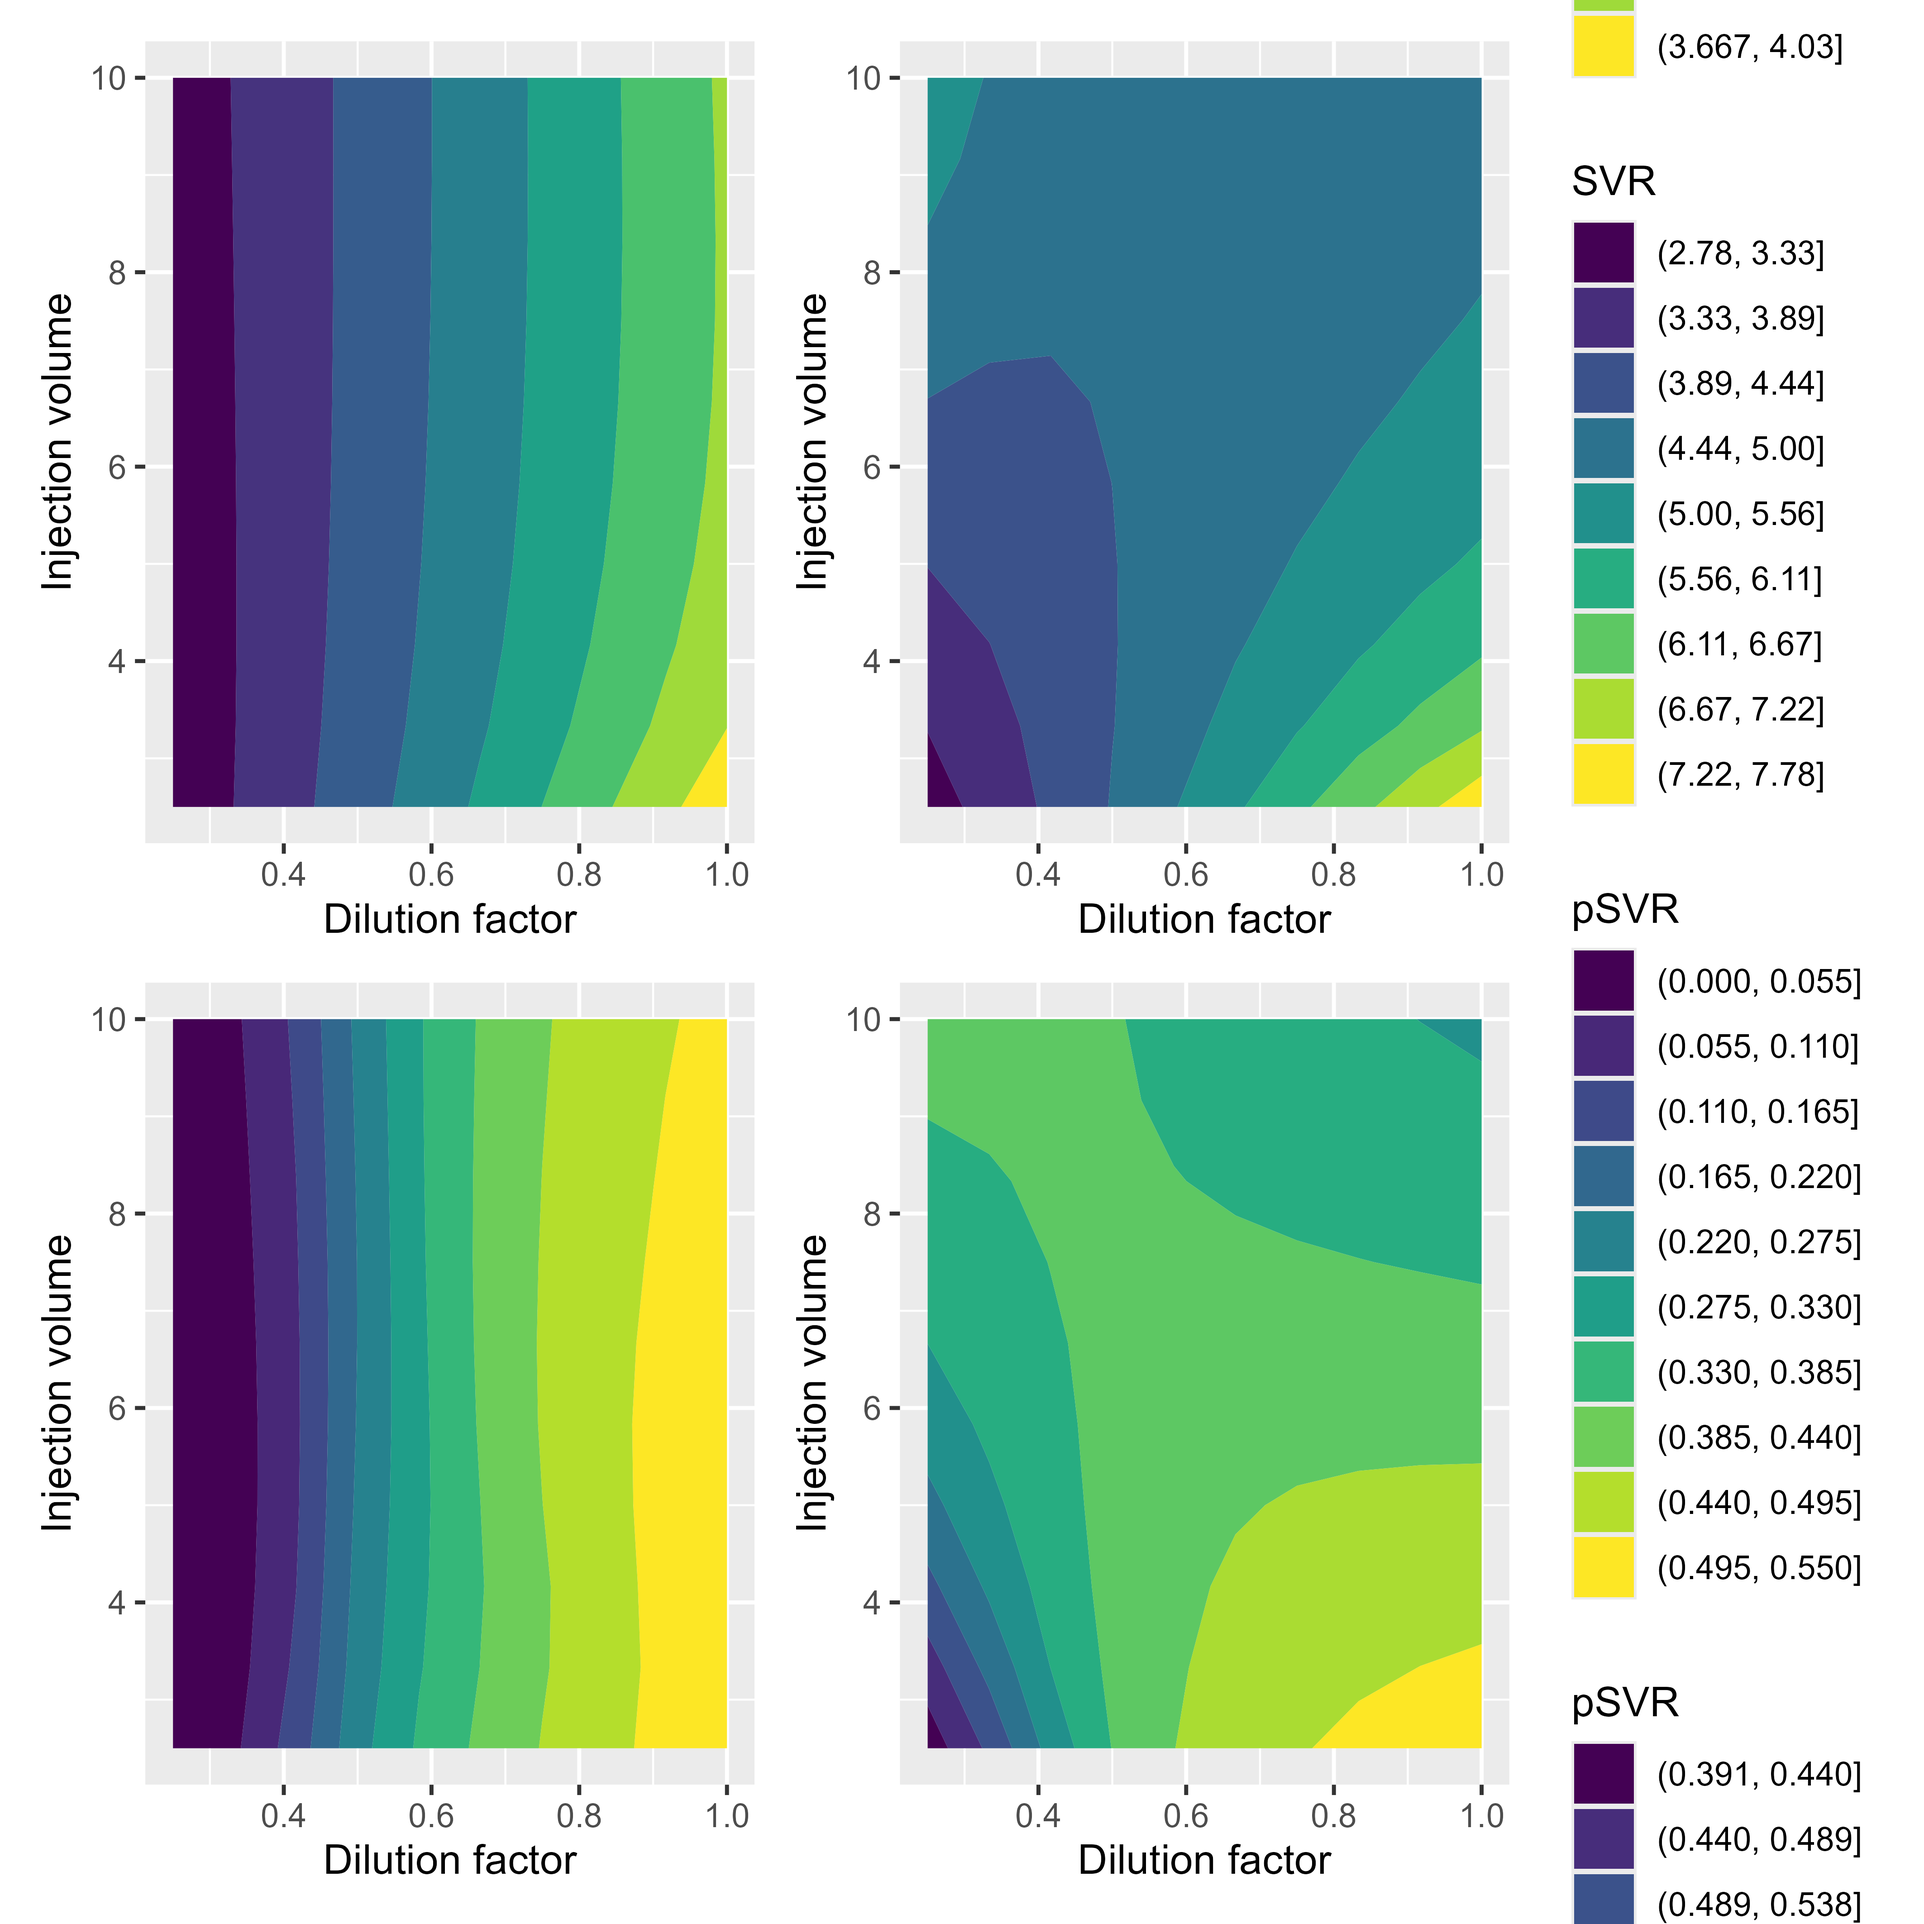
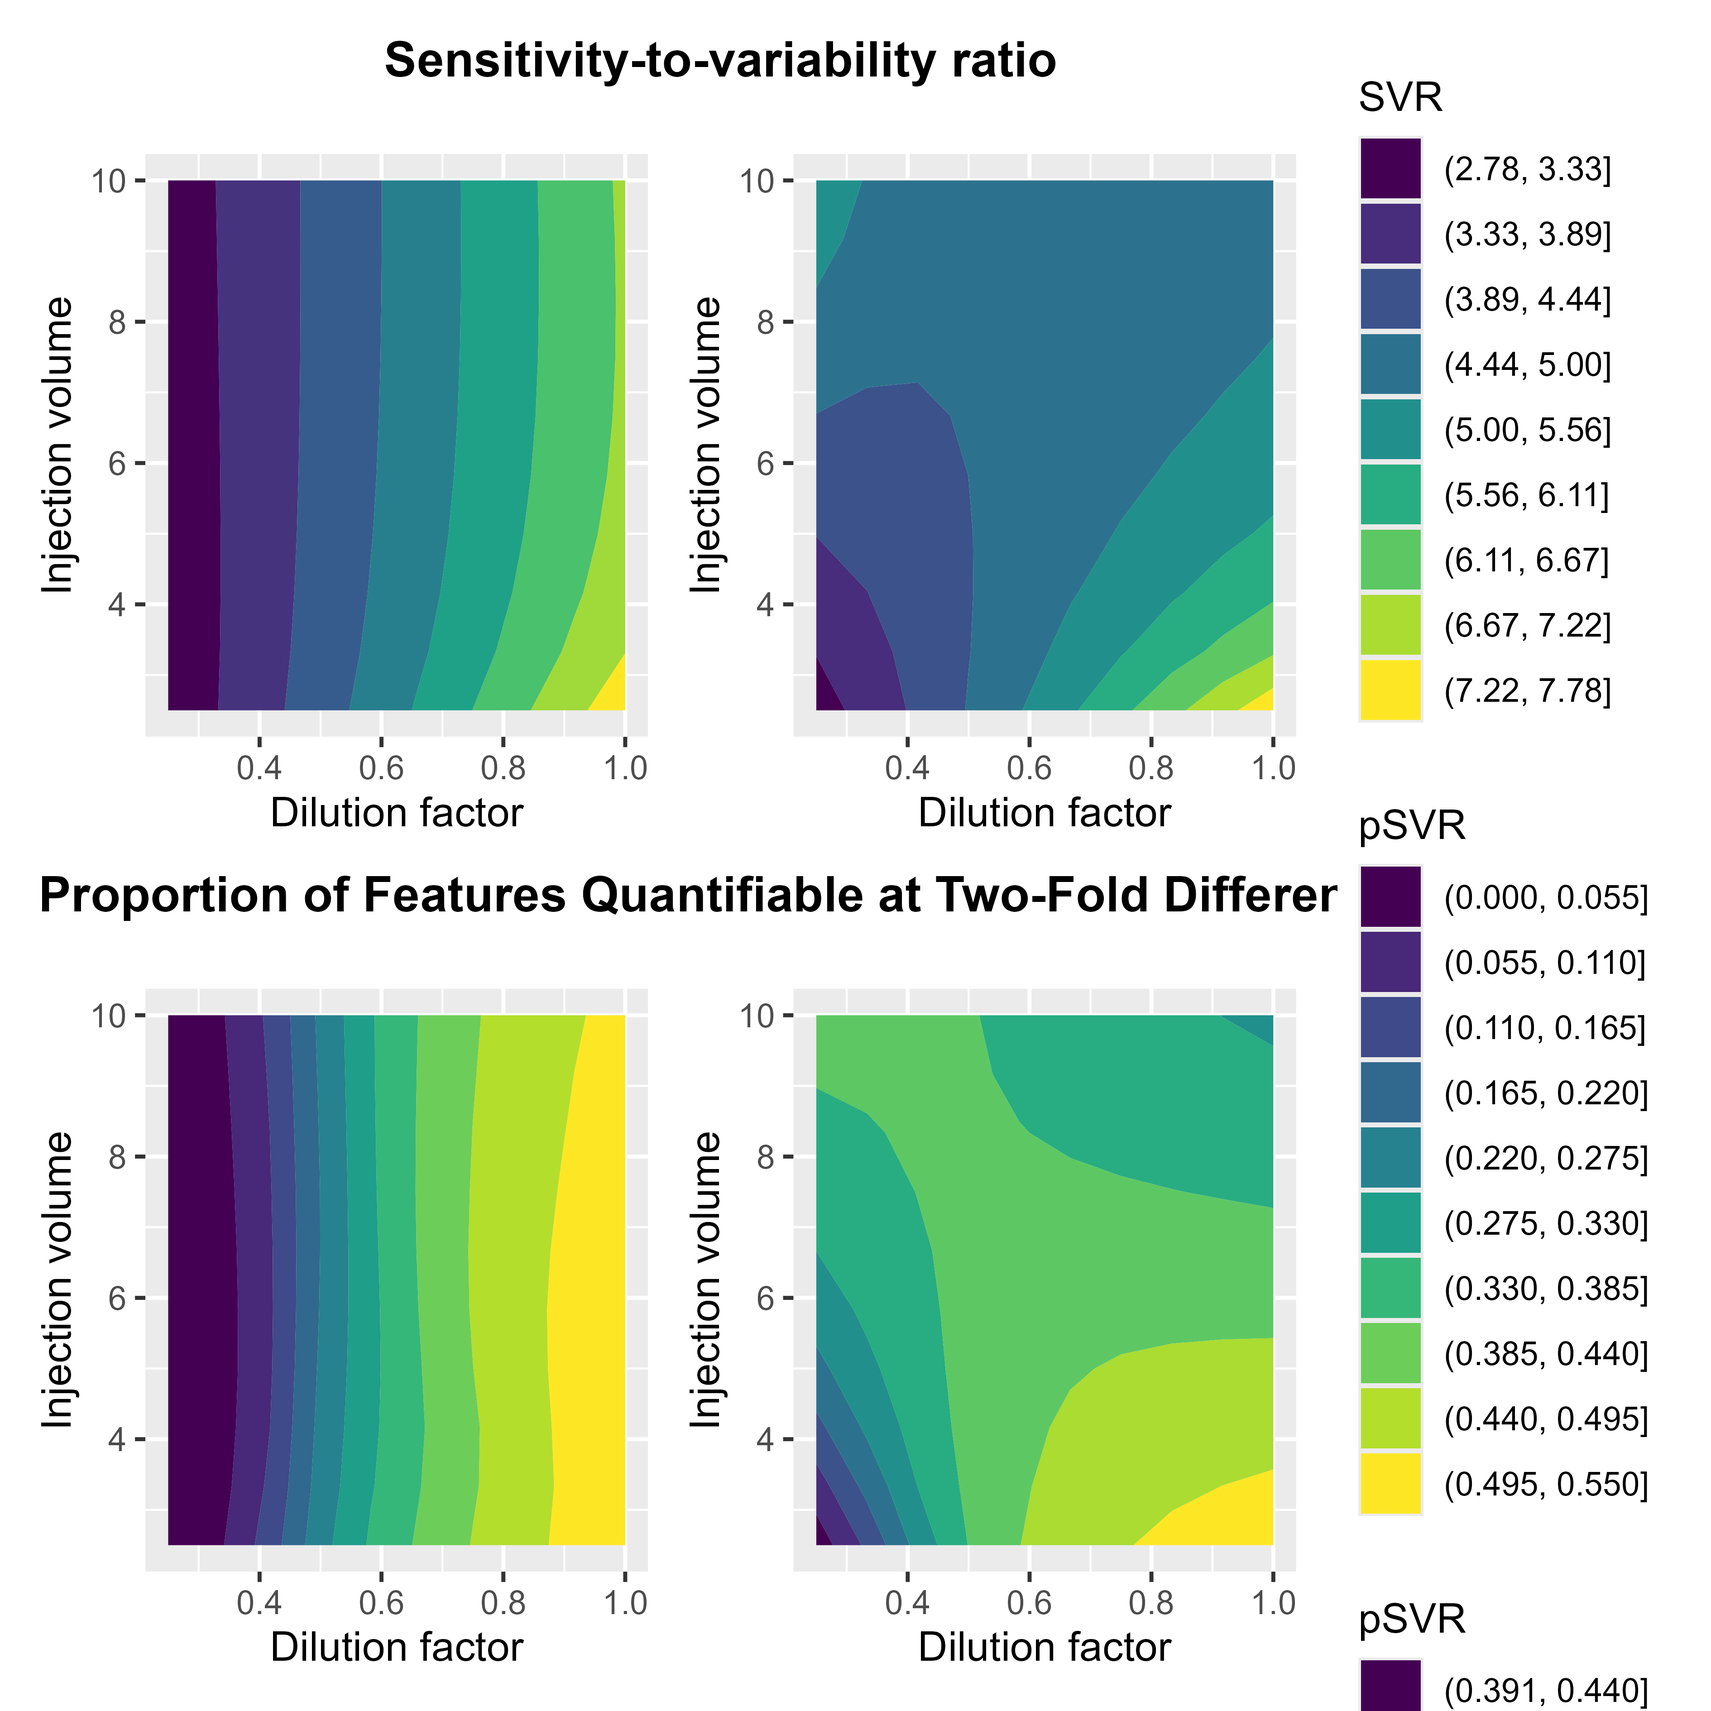
performance-metric-grid.png update

Changed region(s): [[0.0, 0.0, 0.968, 1.0], [0.9368, 0.0, 0.968, 0.0312], [0.6557, 0.281, 0.687, 0.3123]]

diff --git a/README.md b/README.md
@@ -11,3 +11,91 @@ The model described in the manuscript is **model 2**.
 
 The main rendered analysis report for this manuscript model can be opened here:
 [model 2 analysis report](https://margotbiesemans.github.io/dilution_injection_optimization/code/mitochondria_injection_dilution_optimization_mod2.html)
+
+Other model versions are retained in the repository for development history and comparison, but model 2 is the model described in the manuscript above.
+
+##Data
+
+The raw input data are stored in:
+
+data/rawdata/
+
+The two raw data files correspond to positive and negative ionization modes:
+
+data/rawdata/mito_dilop_stand_pos.csv
+data/rawdata/mito_dilop_stand_neg.csv
+
+Derived datasets generated during the analysis are stored in:
+
+data/derived/
+
+### Model output files
+
+The fitted model output files are stored in:
+
+model/model2/model-output/
+
+The generated-quantities output files are stored in:
+
+model/model2_gq/model_gq-output/
+model/decision2_gq/decision_gq-output/
+
+These output files are generated by running the Stan models and may be large. Hence, they are excluded from this GitHub repository. The output files can be generated by running the provided code.
+
+## Figures and tables
+
+Generated figures and tables are stored in:
+
+deliv/figures/
+deliv/tables/
+
+## Software
+
+The project was developed in R using RStudio, Quarto, Stan, and CmdStanR.
+
+Main R packages used include:
+ bbr 
+ bbr.bayes 
+ dplyr 
+ ggplot2 
+ patchwork 
+ naniar 
+ knitr 
+ data.table 
+ tidyverse 
+ glue 
+ whisker 
+ here 
+ cmdstanr 
+ gridExtra 
+ posterior 
+ tidybayes 
+ GGally 
+ mrgmisc 
+ scales 
+
+The repository also contains a renv/ setup. If using renv, restore the package environment with:
+
+renv::restore()
+
+## Running the analysis
+
+Set up your RStudio project.
+
+Then open the model 2 Quarto document:
+
+code/mitochondria_injection_dilution_optimization_mod2.qmd
+
+Our rendered report is available as:
+
+code/mitochondria_injection_dilution_optimization_mod2.html
+
+To reproduce the full analysis, run the Quarto document section by section. Computationally intensive model-fitting and generated-quantities chunks may need to be run manually depending on local computing resources.
+
+## Citation
+
+If you use this repository, please cite the associated manuscript once available.
+
+## License
+
+See the LICENSE file for licensing information.
